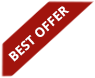
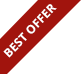
new

Changed region(s): [[0.0, 0.0, 1.0, 1.0]]

diff --git a/css/style.css b/css/style.css
@@ -1268,24 +1268,24 @@
 	border: none;
 	}
 
-	.table-price:nth-child(2){
-	animation: shadow-pulse 1s infinite;
-	}
+		/*.table-price:nth-child(2){
+		animation: shadow-pulse 1s infinite;
+		}
 
-	@keyframes shadow-pulse
-	{
-	0% {
-	box-shadow: 0 0 0 0px rgba(255, 255, 255, 0.2);
-	}
-	100% {
-	box-shadow: 0 0 0 35px rgba(255, 255, 255, 0);
-	}
-	}
+		@keyframes shadow-pulse
+		{
+		0% {
+		box-shadow: 0 0 0 0px rgba(255, 255, 255, 0.2);
+		}
+		100% {
+		box-shadow: 0 0 0 35px rgba(255, 255, 255, 0);
+		}
+		}
 
-	.table-price:nth-child(2):hover{
-	-webkit-animation: none;
-	}
-
+		.table-price:nth-child(2):hover{
+		-webkit-animation: none;
+		}
+	     */
 
 
 	.table-price .price-header{
@@ -1299,8 +1299,8 @@
 
 	.table-price .price-header .ribbon{
 	position: absolute;
-	    top: -2px;
-    left: -3px;
+	    top:0;
+    left:0;
 	}
 
 	.table-price .price-header h3{
@@ -1440,6 +1440,8 @@
 	position: absolute;
 	bottom: 0;
 	margin-top:30px;
+	 outline: 0;
+    box-shadow: none!important;
 	}
 
 	.btn-order .button-buy{
@@ -1463,6 +1465,8 @@
 	color: #fafafa;
 	}
 
+	
+
 	/* Button Subrscrine now Free */
 
 	.btn-order .button-free{
@@ -1478,6 +1482,10 @@
 	bottom: 0;
 	border: 0;
 	color: #ffffff;
+
+    outline: 0;
+    box-shadow: none!important;
+    
 	}
 
 	.btn-order .button-free:hover{
@@ -1500,6 +1508,8 @@
 	bottom: 0;
 	border: 0;
 	color: #ffffff;
+	outline: 0;
+    box-shadow: none!important;
 	}
 
 	.btn-order .button-plus:hover{
@@ -1523,6 +1533,10 @@
 	bottom: 0;
 	border: 0;
 	color: #ffffff;
+	
+    outline: 0;
+    box-shadow: none!important;
+    
 	}
 
 	.btn-order .button-pro:hover{
@@ -1538,7 +1552,6 @@
 
 	border: none;
 	color:#fff;
-	background:#272e38;
 	border-radius:0;
 	font-size: 17px;
 	font-weight: 400;
@@ -1551,6 +1564,11 @@
 
 	nav > .nav.nav-tabs a:first-child{
 	background-color:#feb100;
+
+	}
+
+	nav > .nav.nav-tabs a:last-child{
+	background-color:#3c5790;;
 	}
 
 	nav > div a.nav-item.nav-link,
@@ -1559,7 +1577,6 @@
 	border: none;
 	padding: 18px 25px;
 	color:#fff;
-	background:#3c5790;
 	border-radius:0;
 	}
 
@@ -1573,6 +1590,7 @@
 	border-top-color:#36C24E;
 
 	}
+
 	.tab-content{
 
 	line-height: 25px;
@@ -1584,14 +1602,15 @@
 	nav > div a.nav-item.nav-link:focus
 	{
 	border: none;
-	background: #26c941;
+	background: #36C24E;
 	color:#fff;
 	border-radius:0;
 	transition:background 0.20s linear;
 	}
 
 	nav > div a.nav-item.nav-link:hover{
-		background: #1ca831;
+		background: #32c94b;
+	
 	}
 
 	/*  MONTHLY  PRICING - POPUPS MODALS ON SUBSCRIBE BUTTON */
@@ -2100,6 +2119,8 @@ text-transform: uppercase;
 	margin-left:10px;
 	}
 
+
+
 	/* Annualy Plus Popup Modal*/
 
 	#annually-plus-modal .free-modal-content{
@@ -2186,7 +2207,7 @@ text-transform: uppercase;
 	}
 
 	#annually-plus-modal .free-modal-body{
-	padding-top: 0;
+	padding: 0;
 	}
 	
 	#annually-plus-modal .free-modal-body .subscribe-free-button{
@@ -2212,6 +2233,50 @@ text-transform: uppercase;
 
 	#annually-plus-modal .free-modal-body .subscribe-free-button .fa{
 	margin-left:10px;
+	}
+
+	#annually-plus-modal .free-modal-body .banner-call{
+	width: 100%;
+	display: block;
+	float: left;
+	background-color:#ce2027;
+	padding-top: 20px;padding-bottom: 20px;
+	margin-top:35px;
+	}
+	
+	#annually-plus-modal .free-modal-body .banner-call h5{
+	font-family: "Roboto";
+	font-weight: 300;
+	font-size: 18px;
+	color: #ffffff;
+	text-align: center;
+	text-transform:uppercase; 
+	}
+
+	#annually-plus-modal .free-modal-body .banner-call h5 span{
+	font-family: "Roboto";
+	font-weight: 500;
+	font-size: 18px;
+	color: #ffffff;
+	text-align: center;
+	text-transform:uppercase; 
+	}
+
+	#annually-plus-modal .free-modal-body .banner-call h6{
+	font-family: "Roboto";
+	font-weight: 500;
+	font-size: 20px;
+	color: #ffffff;
+	text-align: center;
+	text-transform:uppercase;
+	margin-bottom: 0; 
+	}
+
+	#annually-plus-modal .free-modal-body .banner-call .fa{
+	 margin-left: 12px;
+	 margin-right: 12px;
+	 font-size: 26px;
+	 vertical-align: -2px;
 	}
 
 
@@ -2301,7 +2366,7 @@ text-transform: uppercase;
 	}
 
 	#annually-pro .free-modal-body{
-	padding-top: 0;
+	padding: 0;
 	}
 	
 	#annually-pro .free-modal-body .subscribe-free-button{
@@ -2327,6 +2392,50 @@ text-transform: uppercase;
 
 	#annually-pro .free-modal-body .subscribe-free-button .fa{
 	margin-left:10px;
+	}
+
+	#annually-pro .free-modal-body .banner-call{
+	width: 100%;
+	display: block;
+	float: left;
+	background-color:#ce2027;
+	padding-top: 20px;padding-bottom: 20px;
+	margin-top:35px;
+	}
+	
+	#annually-pro .free-modal-body .banner-call h5{
+	font-family: "Roboto";
+	font-weight: 300;
+	font-size: 18px;
+	color: #ffffff;
+	text-align: center;
+	text-transform:uppercase; 
+	}
+
+	#annually-pro .free-modal-body .banner-call h5 span{
+	font-family: "Roboto";
+	font-weight: 500;
+	font-size: 18px;
+	color: #ffffff;
+	text-align: center;
+	text-transform:uppercase; 
+	}
+
+	#annually-pro .free-modal-body .banner-call h6{
+	font-family: "Roboto";
+	font-weight: 500;
+	font-size: 20px;
+	color: #ffffff;
+	text-align: center;
+	text-transform:uppercase;
+	margin-bottom: 0; 
+	}
+
+	#annually-pro .free-modal-body .banner-call .fa{
+	 margin-left: 12px;
+	 margin-right: 12px;
+	 font-size: 26px;
+	 vertical-align: -2px;
 	}
 
 	/*end of pricing section and  popup modal */

diff --git a/index.html b/index.html
@@ -478,8 +478,8 @@
         
         <div class="row">
             <div class="text-box-price">
-              <h3>Choose the plan that's right for your business</h3>
               <h2>Getting Started is Easy!</h2>
+               <h3>Choose the plan that's right for your business</h3>
               <div class="line-border-3"></div>
               <h4><i class="fa fa-circle"></i>Full Featured Software <i class="fa fa-circle"></i> No Obligations <i class="fa fa-circle"></i> Fast Setup </h4>
             </div><!-- /text-box-->
@@ -776,8 +776,8 @@
           </div>
           <div class="modal-body free-modal-body">
              <div class="text-headline">
-               <h3>WEB1040 PRO is <span>FREE FOREVER</span></h3>
-               <h4>Annual Setup Fee of <span>$25.00 </span> Is Required</h4>
+               <h3>WEB1040 <span>FREE</span></h3>
+               <h4>Annual Setup Fee of <span>$25.00 </span></h4>
              </div>
 
               <a class="btn subscribe-free-button" href="https://app.moonclerk.com/pay/2is6qmisby1d">SUBSCRIBE NOW <i class="fa fa-long-arrow-right"></i></a>
@@ -882,7 +882,7 @@
           <div class="modal-body free-modal-body">
              <div class="text-headline">
                <h3>WEB1040 <span>FREE</span></h3>
-               <h4><span>$25.00 </span>Annually</h4>
+               <h4>Annuall Setup Fee of <span>$25.00 </span></h4>
              </div>
 
               <a class="btn subscribe-free-button" href="https://app.moonclerk.com/pay/2is6qmisby1d">SUBSCRIBE NOW <i class="fa fa-long-arrow-right"></i></a>
@@ -910,6 +910,11 @@
              </div>
 
               <a class="btn subscribe-free-button" href="https://app.moonclerk.com/pay/4cka455t93wg">SUBSCRIBE NOW <i class="fa fa-long-arrow-right"></i></a>
+
+              <div class="banner-call">
+               <h5>FOR MULTI USERS DISCOUNT</h5>
+               <h6>CALL US<i class="fa fa-phone"></i>1-833-WEB-1040</h6>
+             </div>
              
           </div><!-- free body  -->
           
@@ -933,6 +938,11 @@
              </div>
 
               <a class="btn subscribe-free-button" href="https://app.moonclerk.com/pay/5kbpdv19eyes">SUBSCRIBE NOW <i class="fa fa-long-arrow-right"></i></a>
+
+              <div class="banner-call">
+               <h5>FOR MULTI USERS DISCOUNT</h5>
+               <h6>CALL US<i class="fa fa-phone"></i>1-833-WEB-1040</h6>
+              </div>
              
           </div><!-- free body  -->
           
